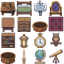
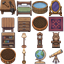
Fix furniture roster art and world-frame dialog portraits

diff --git a/src/items.js b/src/items.js
@@ -509,11 +509,11 @@ const FURNITURE = {
   planter_clay: { frame: 6, tierSheetFrame: null, flip: true, height: "mid", ability: "plant", light: null, luxury: null },
   rug_burgundy: { frame: 7, tierSheetFrame: null, flip: false, height: "flat", ability: null, light: null, luxury: null },
   bookshelf_frontier: { frame: 8, tierSheetFrame: null, flip: true, height: "mid", ability: null, light: null, luxury: null },
-  lantern_brass: { frame: 9, tierSheetFrame: null, flip: true, height: "mid", ability: null, light: "furniture_hearthlamp", luxury: null },
-  clock_mantel: { frame: 10, tierSheetFrame: null, flip: false, height: "mid", ability: null, light: null, luxury: null },
-  statue_owl: { frame: 11, tierSheetFrame: null, flip: true, height: "mid", ability: null, light: null, luxury: null },
+  lamp_floor: { frame: 9, tierSheetFrame: null, flip: true, height: "mid", ability: null, light: "furniture_floorlamp", luxury: null },
+  clock_grandfather: { frame: 10, tierSheetFrame: null, flip: false, height: "mid", ability: null, light: null, luxury: null },
+  statue_pedestal: { frame: 11, tierSheetFrame: null, flip: true, height: "mid", ability: null, light: null, luxury: null },
   planter_copper: { frame: 12, tierSheetFrame: null, flip: true, height: "mid", ability: "plant", light: null, luxury: null },
-  candlestick_brass: { frame: 13, tierSheetFrame: null, flip: true, height: "mid", ability: null, light: "furniture_candlestick", luxury: null },
+  candelabra_floor: { frame: 13, tierSheetFrame: null, flip: true, height: "mid", ability: null, light: "furniture_candelabra", luxury: null },
   globe_brass: { frame: 14, tierSheetFrame: null, flip: false, height: "mid", ability: null, light: null, luxury: null },
   telescope_brass: { frame: 15, tierSheetFrame: null, flip: true, height: "mid", ability: null, light: null, luxury: null },
 };
@@ -977,11 +977,11 @@ const ITEMS = [
   { id: "planter_clay", name: "Clay Planter", kind: 'furniture', baseTier: 1 },
   { id: "rug_burgundy", name: "Burgundy Rug", kind: 'furniture', baseTier: 2 },
   { id: "bookshelf_frontier", name: "Frontier Bookshelf", kind: 'furniture', baseTier: 2 },
-  { id: "lantern_brass", name: "Brass Hearthlamp", kind: 'furniture', baseTier: 2 },
-  { id: "clock_mantel", name: "Brass Mantel Clock", kind: 'furniture', baseTier: 2 },
-  { id: "statue_owl", name: "Carved Owl", kind: 'furniture', baseTier: 2 },
+  { id: "lamp_floor", name: "Brass Floor Lamp", kind: 'furniture', baseTier: 3 },
+  { id: "clock_grandfather", name: "Grandfather Clock", kind: 'furniture', baseTier: 3 },
+  { id: "statue_pedestal", name: "Pedestal Owl", kind: 'furniture', baseTier: 2 },
   { id: "planter_copper", name: "Riveted Copper Planter", kind: 'furniture', baseTier: 2 },
-  { id: "candlestick_brass", name: "Brass Candlestick", kind: 'furniture', baseTier: 3 },
+  { id: "candelabra_floor", name: "Floor Candelabra", kind: 'furniture', baseTier: 1 },
   { id: "globe_brass", name: "Surveyor's Globe", kind: 'furniture', baseTier: 3 },
   { id: "telescope_brass", name: "Brass Stargazer", kind: 'furniture', baseTier: 3 },
   { id: 'field_scope', name: 'Field Scope', kind: 'unique_relic' },
@@ -2105,11 +2105,11 @@ const ITEM_EFFECTS = {
   planter_clay: "An open bed of soil rests in a broad clay planter.",
   rug_burgundy: "A rich burgundy rug brings warmth beneath your feet.",
   bookshelf_frontier: "A sturdy frontier shelf holds the promise of many stories.",
-  lantern_brass: "A brass hearthlamp lends a welcoming shape to a quiet room.",
-  clock_mantel: "A little brass clock gives the mantel a dignified air.",
-  statue_owl: "A patient carved owl watches over the room.",
+  lamp_floor: "A tall brass floor lamp lends a welcoming shape to a quiet room.",
+  clock_grandfather: "A stately grandfather clock gives the room a dignified air.",
+  statue_pedestal: "A patient owl on a stone pedestal watches over the room.",
   planter_copper: "Riveted copper surrounds a broad bed of waiting soil.",
-  candlestick_brass: "An elegant brass candlestick dresses a favourite corner.",
+  candelabra_floor: "A floor-standing candelabra dresses a favourite corner.",
   globe_brass: "A brass-mounted globe invites thoughts of distant roads.",
   telescope_brass: "A fine brass telescope points toward wonders beyond the roof.",
   pet_collar: 'A broad, soft collar for a companion with a long road ahead.',

diff --git a/test/node/modal_buttons.test.js b/test/node/modal_buttons.test.js
@@ -170,6 +170,11 @@ test('modal buttons: choice action labels update on selection and retain the mod
     try {
       const scene = furnitureScene(), buttons = [], icons = [], shell = { wrap: el(), box: el() };
       scene.iconSpanHTML = (id, size) => { icons.push({ id, size }); return `<span>${id}</span>`; };
+      scene.worldIconHTML = liftSceneMethod('worldIconHTML', { window: {} });
+      // Stand in only for the pixel bake; the shipped world-icon renderer
+      // must put the requested world sheet and frame into the dialog HTML.
+      scene._worldIconUrl = (key, frame) => key === 'furniture'
+        ? `assets/Objects/Furniture/furniture-32.png#frame=${frame}` : '';
       scene.makeModalShell = (id, opts) => {
         shell.opts = opts;
         shell.box = el();
@@ -179,11 +184,18 @@ test('modal buttons: choice action labels update on selection and retain the mod
         } };
       };
       const record = scene.save.furniture[0];
+      record.flip = true;
       assert.truthy(runInteractable(makeCtx(scene, scene.save), { ...record, kind: 'furniture' }));
       assert.eq(shell.opts.kindLabel, 'Furniture');
       assert.eq(shell.opts.art, false, 'the catalog art is the subject');
       assert.eq(typeof shell.opts.onClose, 'function', 'ordinary backdrop/close dismissal');
-      assert.truthy(icons.some(icon => icon.id === record.itemId && icon.size >= 96), 'large inventory frame');
+      assert.eq(icons.length, 1, 'only the category badge uses the inventory icon');
+      assert.eq(icons[0].size, 32, 'category icon retains its size');
+      const art = shell.box.children.find(child => child.className === 'furniture-art');
+      assert.includes(art.innerHTML, 'assets/Objects/Furniture/furniture-32.png');
+      assert.includes(art.innerHTML, `#frame=${furnitureSpec(record.itemId).frame}`);
+      assert.includes(art.innerHTML, 'width:128px;height:256px', 'world frame has exact 4× dimensions');
+      assert.eq(art.style.transform, 'scaleX(-1)', 'portrait preserves the placed flip');
       const pickupRow = shell.box.children[0], actions = shell.box.children[shell.box.children.length - 1];
       assert.eq(pickupRow.children[0].label, 'Pick up');
       assert.eq(pickupRow.children[0].options.variant, 'ghost');
@@ -196,6 +208,14 @@ test('modal buttons: choice action labels update on selection and retain the mod
       record.itemId = 'rug_burgundy';
       scene.presentFurniture(record);
       assert.eq(buttons.length, 1, 'a fixed decorative rug only has pickup');
+      record.itemId = 'clock_grandfather';
+      record.flip = false;
+      scene.presentFurniture(record);
+      const clockArt = shell.box.children.find(child => child.className === 'furniture-art');
+      assert.includes(clockArt.innerHTML, 'assets/Objects/Furniture/furniture-32.png#frame=10',
+        'tall clock uses its world frame instead of its fitted 16px icon');
+      assert.includes(clockArt.innerHTML, 'width:128px;height:256px');
+      assert.eq(clockArt.style.transform, '', 'unflipped clock stays upright');
     } finally { document.createElement = oldCreate; }
   });
 })();

diff --git a/index.html b/index.html
@@ -98,7 +98,7 @@
        the preload only removes its later network wait. cachebust.js owns both
        versions, just as it owns the matching script and APP_SRC URLs. -->
   <link rel="preload" as="script" fetchpriority="high" href="vendor/phaser.js?v=3fa1b12c" />
-  <link rel="preload" as="script" fetchpriority="high" href="src/app.js?v=2e00d1b4" />
+  <link rel="preload" as="script" fetchpriority="high" href="src/app.js?v=2ec86176" />
   <script>
     // ── Boot profiler ────────────────────────────────────────────────────
     // FIRST thing on the page, so it is recording before a single byte of the
@@ -3023,7 +3023,7 @@
   <script src="src/quarry_layout.js?v=6b945d34"></script>
   <script src="src/zone_dressing.js?v=eed6eea0"></script>
   <script src="src/reef_layout.js?v=5ac55392"></script>
-  <script src="src/sprite_layout.js?v=b838cb3e"></script>
+  <script src="src/sprite_layout.js?v=f96d4366"></script>
   <script src="src/placed_floor.js?v=360a9480"></script>
   <script src="src/campfires.js?v=de1dbe54"></script>
   <script src="src/home.js?v=ddcaa455"></script>
@@ -3055,7 +3055,7 @@
   <script src="src/castle_styles.js?v=5574b04f"></script>
   <script src="src/textures.js?v=d1bc2162"></script>
   <script src="src/save.js?v=5d02b05e"></script>
-  <script src="src/items.js?v=68530a3f"></script>
+  <script src="src/items.js?v=e718d6c0"></script>
   <script src="src/inventory.js?v=f8d057a5"></script>
   <script src="src/energy.js?v=10dc51a3"></script>
   <script src="src/conditions.js?v=ebae5f35"></script>
@@ -3116,7 +3116,7 @@
   <script src="src/building_styles.js?v=b503f242"></script>
   <script src="src/building_lowpoly.js?v=7fe7adab"></script>
   <script src="src/building_overlay.js?v=120c7950"></script>
-  <script src="src/assets.js?v=0438340e"></script>
+  <script src="src/assets.js?v=d28d4acd"></script>
   <script src="src/sandbox_destinations.js?v=e6dc29cb"></script>
   <script src="src/sandbox.js?v=0c27f739"></script>
   <script src="src/floor_sandbox.js?v=84ffa91a"></script>
@@ -3139,7 +3139,7 @@
   <script src="src/scene_consumables.js?v=13f93c2c"></script>
   <script src="src/scene_pets.js?v=b0c58511"></script>
   <script src="src/scene_venues.js?v=9180ec55"></script>
-  <script src="src/scene_furniture.js?v=081ab809"></script>
+  <script src="src/scene_furniture.js?v=2e3cb843"></script>
   <script src="src/scene_streets.js?v=498f621a"></script>
   <script src="src/scene_boss.js?v=eb142e7f"></script>
   <script>window.__boot?.mark('scripts parsed');</script>
@@ -3211,7 +3211,7 @@
     // tracking joins that same watch — one watchPosition per page, one prompt.
     (function () {
       if (window.__bootRecovery.failed) return;
-      const APP_SRC = 'src/app.js?v=2e00d1b4';
+      const APP_SRC = 'src/app.js?v=2ec86176';
       // How long the gate waits for that first fix before giving up and
       // booting at the default origin. A cold GPS start can take far longer
       // than this indoors, so app.js keeps its capture-then-reload path as a

diff --git a/src/sprite_layout.js b/src/sprite_layout.js
@@ -38,22 +38,22 @@
   // Trimmed opaque bounds per "<textureKey>:<frameIndex>" (max EXCLUSIVE).
   // GENERATED — see `node tools/sprite_audit.js --emit-bounds`.
   const ART_BOUNDS = {
-    'furniture:0': { fw: 32, fh: 32, minX: 1, minY: 4, maxX: 31, maxY: 32 },
-    'furniture:1': { fw: 32, fh: 32, minX: 1, minY: 1, maxX: 32, maxY: 32 },
-    'furniture:2': { fw: 32, fh: 32, minX: 4, minY: 1, maxX: 29, maxY: 32 },
-    'furniture:3': { fw: 32, fh: 32, minX: 3, minY: 2, maxX: 28, maxY: 32 },
-    'furniture:4': { fw: 32, fh: 32, minX: 3, minY: 3, maxX: 29, maxY: 32 },
-    'furniture:5': { fw: 32, fh: 32, minX: 3, minY: 2, maxX: 30, maxY: 32 },
-    'furniture:6': { fw: 32, fh: 32, minX: 1, minY: 11, maxX: 31, maxY: 32 },
-    'furniture:7': { fw: 32, fh: 32, minX: 1, minY: 1, maxX: 31, maxY: 31 },
-    'furniture:8': { fw: 32, fh: 32, minX: 2, minY: 1, maxX: 30, maxY: 32 },
-    'furniture:9': { fw: 32, fh: 32, minX: 7, minY: 3, maxX: 25, maxY: 32 },
-    'furniture:10': { fw: 32, fh: 32, minX: 4, minY: 1, maxX: 28, maxY: 32 },
-    'furniture:11': { fw: 32, fh: 32, minX: 5, minY: 1, maxX: 28, maxY: 30 },
-    'furniture:12': { fw: 32, fh: 32, minX: 1, minY: 8, maxX: 31, maxY: 32 },
-    'furniture:13': { fw: 32, fh: 32, minX: 11, minY: 1, maxX: 21, maxY: 32 },
-    'furniture:14': { fw: 32, fh: 32, minX: 5, minY: 2, maxX: 28, maxY: 32 },
-    'furniture:15': { fw: 32, fh: 32, minX: 2, minY: 2, maxX: 30, maxY: 32 },
+    'furniture:0': { fw: 32, fh: 64, minX: 1, minY: 36, maxX: 31, maxY: 64 },
+    'furniture:1': { fw: 32, fh: 64, minX: 1, minY: 33, maxX: 32, maxY: 64 },
+    'furniture:2': { fw: 32, fh: 64, minX: 1, minY: 39, maxX: 31, maxY: 64 },
+    'furniture:3': { fw: 32, fh: 64, minX: 3, minY: 34, maxX: 28, maxY: 64 },
+    'furniture:4': { fw: 32, fh: 64, minX: 3, minY: 35, maxX: 29, maxY: 64 },
+    'furniture:5': { fw: 32, fh: 64, minX: 3, minY: 34, maxX: 30, maxY: 64 },
+    'furniture:6': { fw: 32, fh: 64, minX: 1, minY: 35, maxX: 31, maxY: 64 },
+    'furniture:7': { fw: 32, fh: 64, minX: 1, minY: 33, maxX: 31, maxY: 63 },
+    'furniture:8': { fw: 32, fh: 64, minX: 2, minY: 33, maxX: 30, maxY: 64 },
+    'furniture:9': { fw: 32, fh: 64, minX: 6, minY: 3, maxX: 26, maxY: 64 },
+    'furniture:10': { fw: 32, fh: 64, minX: 4, minY: 0, maxX: 27, maxY: 64 },
+    'furniture:11': { fw: 32, fh: 64, minX: 6, minY: 34, maxX: 25, maxY: 64 },
+    'furniture:12': { fw: 32, fh: 64, minX: 1, minY: 34, maxX: 31, maxY: 64 },
+    'furniture:13': { fw: 32, fh: 64, minX: 7, minY: 2, maxX: 24, maxY: 64 },
+    'furniture:14': { fw: 32, fh: 64, minX: 5, minY: 34, maxX: 28, maxY: 64 },
+    'furniture:15': { fw: 32, fh: 64, minX: 2, minY: 34, maxX: 30, maxY: 64 },
     'clay_pot_smashed:3': { fw: 24, fh: 24, minX: 1, minY: 1, maxX: 22, maxY: 23 },
     'clay_pot_smashed:2': { fw: 24, fh: 24, minX: 1, minY: 1, maxX: 23, maxY: 23 },
     'clay_pot_smashed:1': { fw: 24, fh: 24, minX: 1, minY: 2, maxX: 23, maxY: 23 },

diff --git a/sw.js b/sw.js
@@ -1,7 +1,7 @@
 // Content-addressed resources survive deployments. HTML stays network-first;
 // tiles retain their independent offline cache. Keep two shell generations so
 // old tabs can still request their exact script URLs after a worker update.
-const SHELL_VERSION = 'shell-b6104103';
+const SHELL_VERSION = 'shell-2a866d03';
 
 const RESOURCE_CACHE = 'terracart-resources-v1';
 const RESOURCE_MANIFEST = './__terracart_resource_manifest__';
@@ -269,7 +269,7 @@ const ASSET_HASHES = {
   "assets/Icons/RPG icons/Weapons and Armor/7. Frost/Staff.png": "b2484a06",
   "assets/Icons/RPG icons/Weapons and Armor/7. Frost/Sword.png": "232136a0",
   "assets/Icons/coin.png": "4c9e7ebc",
-  "assets/Icons/dom-atlas.png": "6955f8d7",
+  "assets/Icons/dom-atlas.png": "0ac52ca3",
   "assets/NPC/Ayo_human_idle.png": "39297eca",
   "assets/NPC/Ayo_human_walk.png": "ba53a101",
   "assets/NPC/Citizen_woman01_idle.png": "8ab400ca",
@@ -466,12 +466,15 @@ const ASSET_HASHES = {
   "assets/Objects/Crops.png": "b151e77a",
   "assets/Objects/DailyVisits/potofgold.png": "68ee01c6",
   "assets/Objects/DailyVisits/wagon.png": "ab9c7c68",
-  "assets/Objects/Furniture/furniture-32.png": "5050ee88",
-  "assets/Objects/Furniture/furniture-icons-16.png": "b4892d28",
+  "assets/Objects/Furniture/furniture-32.png": "2ed8f44c",
+  "assets/Objects/Furniture/furniture-icons-16.png": "806b8333",
   "assets/Objects/Furniture/source/concept_mirror.png": "8df7f932",
-  "assets/Objects/Furniture/source/concept_planter_clay.png": "25f09ecc",
-  "assets/Objects/Furniture/source/concept_planter_copper.png": "3d3de4c4",
+  "assets/Objects/Furniture/source/concept_planter_clay_v2.png": "b5dd0e2e",
+  "assets/Objects/Furniture/source/concept_planter_copper_v2.png": "bee4d05f",
   "assets/Objects/Furniture/source/concept_workbench.png": "a3b0cbdf",
+  "assets/Objects/Furniture/source/floorlamp_T1.png": "0688b5c0",
+  "assets/Objects/Furniture/source/statue_T2.png": "7139b900",
+  "assets/Objects/Furniture/source/tub_T1.png": "2fce3628",
   "assets/Objects/Generated/apothecary.png": "5370279b",
   "assets/Objects/Generated/apothecary_simple.png": "295b80fb",
   "assets/Objects/Generated/bank_simple.png": "980f865f",

diff --git a/test/node/run.js b/test/node/run.js
@@ -1496,6 +1496,25 @@ ctx.__tests.push({ name: 'assets: every ASSETS path exists on disk', fn: () => {
   if (missing.length) throw new Error(`missing art files: ${missing.join(', ')}`);
 } });
 
+// Rebuilding art must not silently change which item a runtime frame displays.
+ctx.__tests.push({ name: 'furniture manifest: catalog frames and world geometry agree', fn: () => {
+  const manifest = JSON.parse(fs.readFileSync(path.join(ROOT, 'assets/Objects/Furniture/manifest.json'), 'utf8'));
+  const { ASSETS } = require('../../tools/sprite_audit.js');
+  const furniture = vm.runInContext('FURNITURE', ctx);
+  ctx.assert.eq(manifest.items.length, Object.keys(furniture).length);
+  ctx.assert.eq(new Set(manifest.items.map(row => row.itemId)).size, manifest.items.length);
+  ctx.assert.eq(new Set(manifest.items.map(row => row.frame)).size, manifest.items.length);
+  ctx.assert.eq(ASSETS.furniture.frameWidth, manifest.worldCell);
+  ctx.assert.eq(ASSETS.furniture.frameHeight, manifest.worldFrameHeight);
+  for (const row of manifest.items) {
+    ctx.assert.eq(ctx.furnitureFrame(row.itemId), row.frame, row.itemId);
+    if (row.mode === 'concept') ctx.assert.truthy(fs.existsSync(path.join(ROOT, row.source)));
+  }
+  for (const id of ['washtub', 'statue_pedestal', 'candelabra_floor']) {
+    ctx.assert.eq(manifest.items.find(row => row.itemId === id).approval, 'pending');
+  }
+} });
+
 // The editable table and the shipped browser module must always agree.
 ctx.__tests.push({ name: 'zone variants: generated browser data matches the canonical table', fn: () => {
   const expected = JSON.parse(fs.readFileSync(path.join(ROOT, 'docs/data/zone-variants.json'), 'utf8'));

diff --git a/src/app.js b/src/app.js
@@ -1678,7 +1678,7 @@ const ICON_SHEETS = {
 // BEGIN GENERATED DOM ICON ATLAS
 // Regenerate with node tools/build-dom-icon-atlas.cjs; original sheets remain the art source.
 const DOM_ICON_ATLAS = {
-  "url": "assets/Icons/dom-atlas.png?v=6955f8d7",
+  "url": "assets/Icons/dom-atlas.png?v=0ac52ca3",
   "width": 1024,
   "height": 720,
   "rects": {
@@ -9882,14 +9882,15 @@ class MapScene extends Phaser.Scene {
   // not in the catalog — the chest or crate a treasure ceremony came out of.
   // A data URL paints instantly, so there is no IconNet hole to cover. Returns
   // '' for a key with no bake, which every caller reads as "use the emoji".
-  worldIconHTML(texKey, sizePx = 26, frame = 0) {
+  // A separate height preserves integer scaling for tall furniture frames.
+  worldIconHTML(texKey, sizePx = 26, frame = 0, heightPx = sizePx) {
     // The boot bake first; a frame it never baked (a building's) is cut on
     // demand by _worldIconUrl.
     const urls = window.WORLD_ICON_URLS;
     const url = (urls && (urls[texKey + ':' + frame] || (frame === 0 ? urls[texKey] : null)))
       || this._worldIconUrl?.(texKey, frame);
     if (!url) return '';
-    return `<span style="display:inline-block;width:${sizePx}px;height:${sizePx}px;`
+    return `<span style="display:inline-block;width:${sizePx}px;height:${heightPx}px;`
       + `background:url('${url}') center/contain no-repeat;image-rendering:pixelated;`
       + `vertical-align:middle"></span>`;
   }

diff --git a/test/node/sprites.test.js b/test/node/sprites.test.js
@@ -884,7 +884,7 @@ test('bush variants stay stable through harvest and reload and cover every appro
 test('furniture art: every frame seats in its cell, including mirrored asymmetric pieces', () => {
   const world = pngDims('assets/Objects/Furniture/furniture-32.png');
   assert.eq(world.w, 128);
-  assert.eq(world.h, 128);
+  assert.eq(world.h, 256);
   const scene = {textures:{exists:()=>true},save:{}};
   const art = Render.objectAppearance(scene, new Map());
   for (const item of ITEMS.filter(item => item.kind === 'furniture')) {
@@ -901,6 +901,11 @@ test('furniture art: every frame seats in its cell, including mirrored asymmetri
       const maxX = mirrored ? b.fw - b.minX : b.maxX;
       assert.inRange(Math.abs(p.dxPx + ((minX + maxX) / 2 - b.fw / 2) * p.scl), 0, 1e-8);
       assert.inRange(p.dyPx + (b.maxY - b.fh / 2) * p.scl, 0, 16);
+      if (['lamp_floor', 'clock_grandfather', 'candelabra_floor'].includes(item.id)) {
+        assert.eq(b.fh, 64, 'upright art keeps the tall world frame');
+        assert.gt((b.maxY - b.minY) * p.scl, 32, 'upright rises above its single floor cell');
+        assert.eq(p.dyPx + (b.maxY - b.fh / 2) * p.scl, 15, 'tall feet sit above the cell edge');
+      }
       let actualFlip;
       p.spec.after({setFlipX(value) { actualFlip=value; }}, o);
       assert.eq(actualFlip, !!mirrored);

diff --git a/test/node/carried_item_art.test.js b/test/node/carried_item_art.test.js
@@ -42,6 +42,23 @@ test('furniture icons: every roster item uses its world frame on the shared DOM 
   assert.eq(ITEM_BY_ID.washtub.name, 'Washing Tub');
   assert.eq(ITEM_BY_ID.washtub.baseTier, 1);
   assert.eq(furnitureSpec('washtub').ability, 'wash');
+  for (const [id, name, tier] of [
+    ['lamp_floor', 'Brass Floor Lamp', 3],
+    ['clock_grandfather', 'Grandfather Clock', 3],
+    ['candelabra_floor', 'Floor Candelabra', 1],
+    ['statue_pedestal', 'Pedestal Owl', 2],
+  ]) {
+    assert.eq(ITEM_BY_ID[id].name, name);
+    assert.eq(ITEM_BY_ID[id].baseTier, tier);
+  }
+  for (const id of ['lantern_brass', 'candlestick_brass', 'clock_mantel', 'statue_owl']) {
+    assert.falsy(ITEM_BY_ID[id], id + ': retired tabletop art is absent');
+    assert.falsy(furnitureSpec(id));
+    assert.falsy(PRICES[id]);
+    assert.falsy(ITEM_EFFECTS[id]);
+  }
+  assert.truthy(furnitureSpec('lamp_floor').light);
+  assert.truthy(furnitureSpec('candelabra_floor').light);
   assert.eq(furnitureSpec('wood'), null);
   assert.eq(furnitureSpec({ kind: 'furniture', itemId: 'workbench', id: 'placed_1' }), furnitureSpec('workbench'));
 });

diff --git a/tools/sprite_audit.js b/tools/sprite_audit.js
@@ -231,7 +231,7 @@ const ASSETS = assetsCtx.window.ASSETS;
 //    frame indices the renderer actually seats (used to (re)build ART_BOUNDS).
 const GEM_ROCKS = Object.values(itemsCtx.GEM_DEPOSITS).filter(row => row.art.sheet === 'cave_props');
 const SHEETS = {
-  furniture: { file: ASSETS.furniture.path, fw: 32, fh: 32, frames: Object.values(itemsCtx.FURNITURE).map(row => row.frame) },
+  furniture: { file: ASSETS.furniture.path, fw: ASSETS.furniture.frameWidth, fh: ASSETS.furniture.frameHeight, frames: Object.values(itemsCtx.FURNITURE).map(row => row.frame) },
   cave_props: { file: ASSETS.cave_props.path, fw: 24, fh: 24, frames: [1, 6, ...GEM_ROCKS.map(row => row.art.frame)] },
   poison_vent_inactive: { file: ASSETS.poison_vent_inactive.path, fw: 24, fh: 24, frames: [0] },
   trees:         { file: 'assets/Objects/Approved/trees.png',                    fw: 32, fh: 48, frames: [1, 2, 3] },

diff --git a/src/scene_furniture.js b/src/scene_furniture.js
@@ -1,4 +1,4 @@
-// Placed furniture uses the inventory's art and one lossless pickup transaction.
+// Placed furniture shows its world frame and uses one lossless pickup transaction.
 const FURNITURE_ABILITY_LABELS = {
   sleep: 'Sleep', wash: 'Wash', reflect: 'Reflect', craft: 'Craft', plant: 'Plant',
 };
@@ -66,8 +66,8 @@ class SceneFurniture {
 
     const art = document.createElement('div');
     art.className = 'furniture-art';
-    art.style.cssText = 'font-size:0;margin:0 auto 8px;width:112px;';
-    art.innerHTML = this.iconSpanHTML(item.id, 112);
+    art.style.cssText = 'font-size:0;margin:0 auto 8px;width:128px;';
+    art.innerHTML = this.worldIconHTML('furniture', 128, furnitureFrame(item.id), 256);
     art.style.transform = record.flip ? 'scaleX(-1)' : '';
     box.appendChild(art);
     const name = document.createElement('div');

diff --git a/src/assets.js b/src/assets.js
@@ -318,7 +318,7 @@ const ASSETS = {
   // anchors at origin (0.5, 1) so it stands on its placement cell; the render
   // spec scales the 48px art down to ~one cell. ?v= busts the SW/browser cache.
   scarecrow:   { kind: 'image', path: 'assets/Objects/Approved/scarecrow.png' },
-  furniture: { kind: 'spritesheet', path: 'assets/Objects/Furniture/furniture-32.png', frameWidth: 32, frameHeight: 32 },
+  furniture: { kind: 'spritesheet', path: 'assets/Objects/Furniture/furniture-32.png', frameWidth: 32, frameHeight: 64 },
   // Rustic default grass/mushroom in the original 22×12 prop grid. Other
   // flowers, seasonal props and existing cave mushrooms keep their source art.
   // Spring/autumn/winter/aqua grass tufts, ferns, wildflowers, mushrooms,
